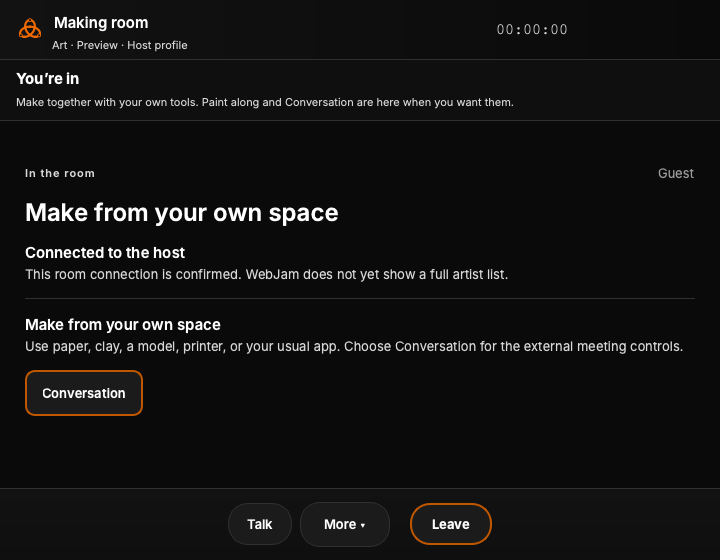
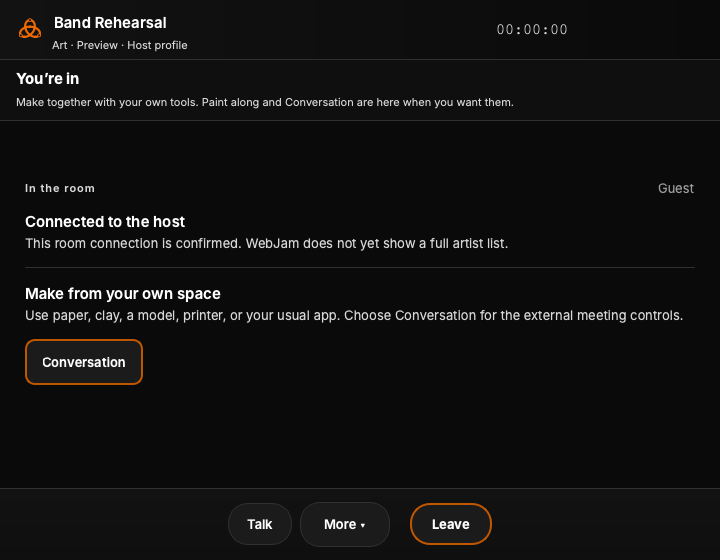
Simplify Art room hierarchy and preserve cleanup test seams

Changed region(s): [[0.0306, 0.3036, 0.9472, 0.7589], [0.0611, 0.0304, 0.2444, 0.0607], [0.9167, 0.3036, 0.9778, 0.3643]]

diff --git a/tests/test_art_room_overview_ui.py b/tests/test_art_room_overview_ui.py
@@ -12,7 +12,8 @@ from PySide6.QtTest import QTest
 from PySide6.QtWidgets import QApplication, QLabel, QPushButton
 from shiboken6 import isValid
 
-from core.art_room_overview import ArtRoomOverview
+from core.art_room_overview import ArtRoomOverview, art_room_overview
+from core.session_conductor import ArtRoomState
 from core.creative_modes import get_creator_profile_by_key
 from webjam_qt.theme import load_stylesheet
 from webjam_qt.widgets.participant_card import ParticipantPresentation
@@ -100,6 +101,38 @@ def window(qapp):
         # modules restyle QApplication.
         QCoreApplication.sendPostedEvents(window, QEvent.Type.DeferredDelete)
         assert not isValid(window)
+
+
+@pytest.mark.parametrize("hosting", [False, True])
+@pytest.mark.parametrize("size", [(720, 560), (1440, 900)])
+def test_own_tools_guidance_has_one_heading_and_keeps_recovery_context(window, qapp, hosting, size):
+    current = art_room_overview(
+        state=ArtRoomState.WAITING if hosting else ArtRoomState.CONNECTED,
+        hosting=hosting,
+    )
+    window.set_art_room_overview(current)
+    window.resize(*size)
+    _settle(qapp)
+    panel = window.art_room_overview
+    headings = [
+        label for label in panel.findChildren(QLabel)
+        if label.isVisibleTo(window) and label.text() == current.activity_label
+    ]
+    assert len(headings) == 1
+    assert panel._activity_detail.isVisibleTo(window)
+    assert panel.conversation_button().isVisibleTo(window)
+    assert panel.conversation_button().isEnabled()
+
+    # Recovery adds distinct context; returning to the room removes the
+    # redundant heading again, without leaving a stale visibility decision.
+    recovery = art_room_overview(state=ArtRoomState.FAILED, hosting=hosting)
+    window.set_art_room_overview(recovery)
+    _settle(qapp)
+    assert panel._title.isVisibleTo(window)
+    assert panel._title.text() == recovery.title
+    window.set_art_room_overview(current)
+    _settle(qapp)
+    assert not panel._title.isVisibleTo(window)
 
 
 def test_art_body_replaces_empty_mixer_and_preserves_music_cards(window, qapp):

diff --git a/webjam_qt/widgets/art_room_overview.py b/webjam_qt/widgets/art_room_overview.py
@@ -361,9 +361,14 @@ class ArtRoomOverviewWidget(QScrollArea):
         )
         self._body_layout.setContentsMargins(margin, vertical_margin, margin, vertical_margin)
         # Short rooms retain names, activities and actions while omitting
-        # the additional display heading.
+        # the additional display heading. Own-tools rooms also omit it
+        # when it repeats the activity heading directly below.
         if self._overview is not None:
-            self._title.setVisible(bool(self._overview.title) and not short)
+            self._title.setVisible(bool(
+                self._overview.title
+                and self._overview.title != self._overview.activity_label
+                and not short
+            ))
         self._content_layout.setSpacing(Space.SM if compact else Space.LG)
         direction = (
             QBoxLayout.Direction.TopToBottom

diff --git a/webjam_qt/controllers/application_controller.py b/webjam_qt/controllers/application_controller.py
@@ -13297,7 +13297,7 @@ class ApplicationController(QObject):
     def _release_reference_video(self) -> None:
         """Return this computer to the no-video path and free its player."""
 
-        self._clear_reference_video_notice()
+        ApplicationController._clear_reference_video_notice(self)
         ApplicationController._clear_shared_lesson_context(self)
         timer = getattr(self, "_reference_video_timer", None)
         if timer is not None:
